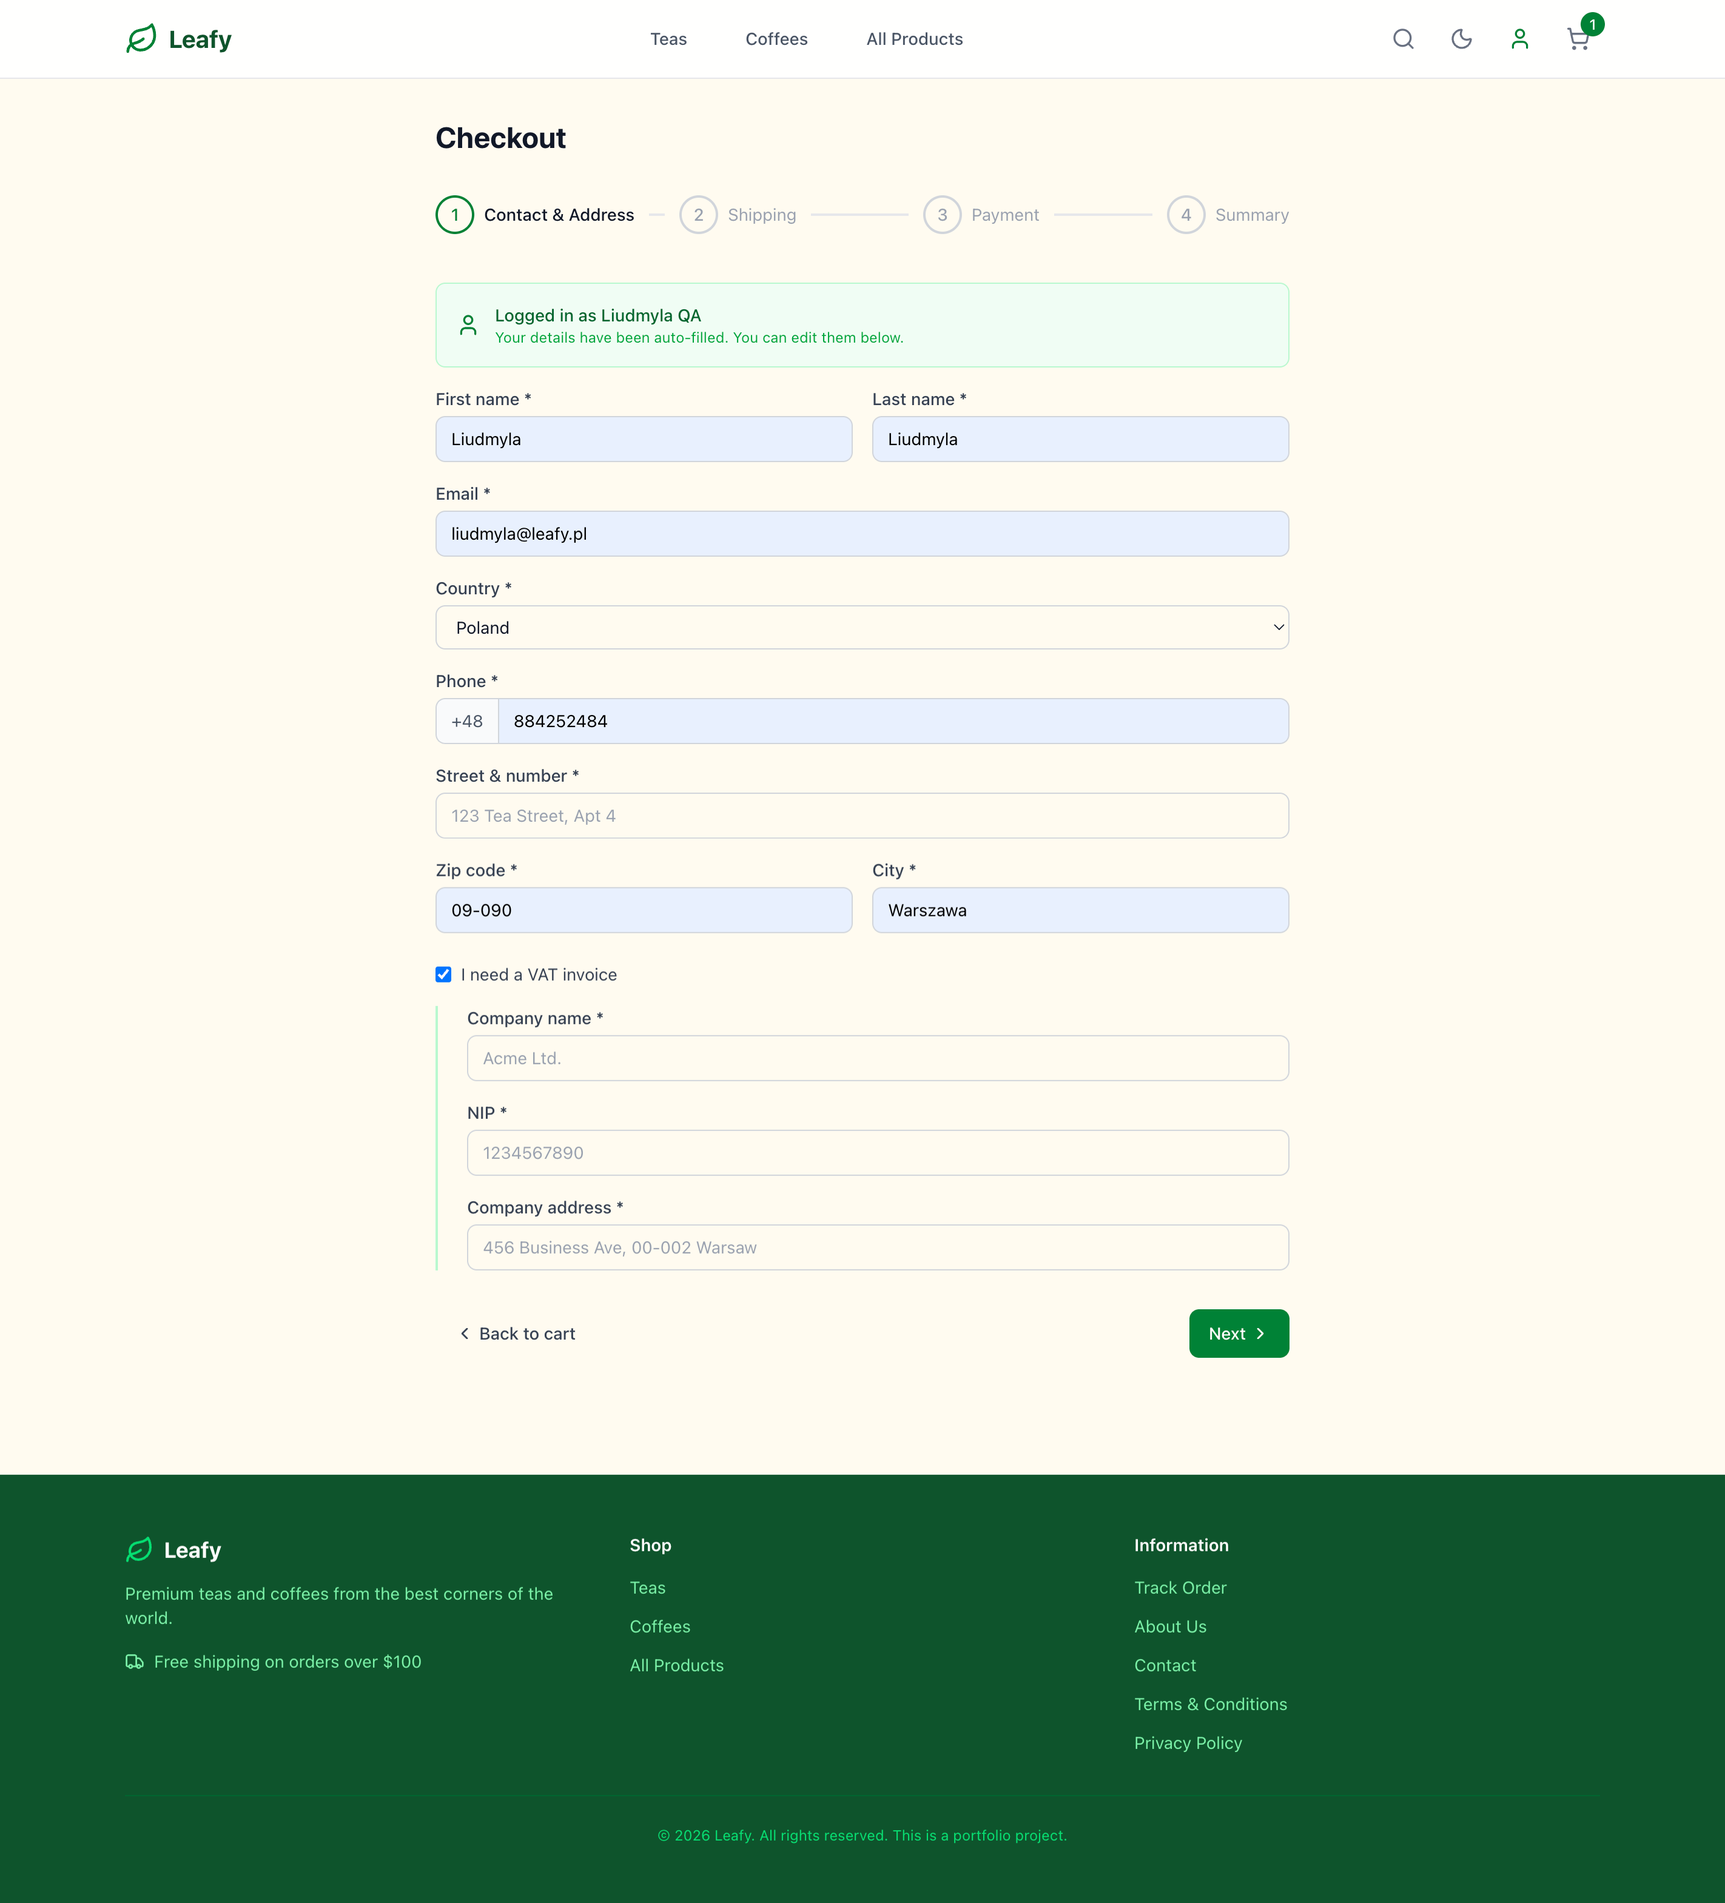
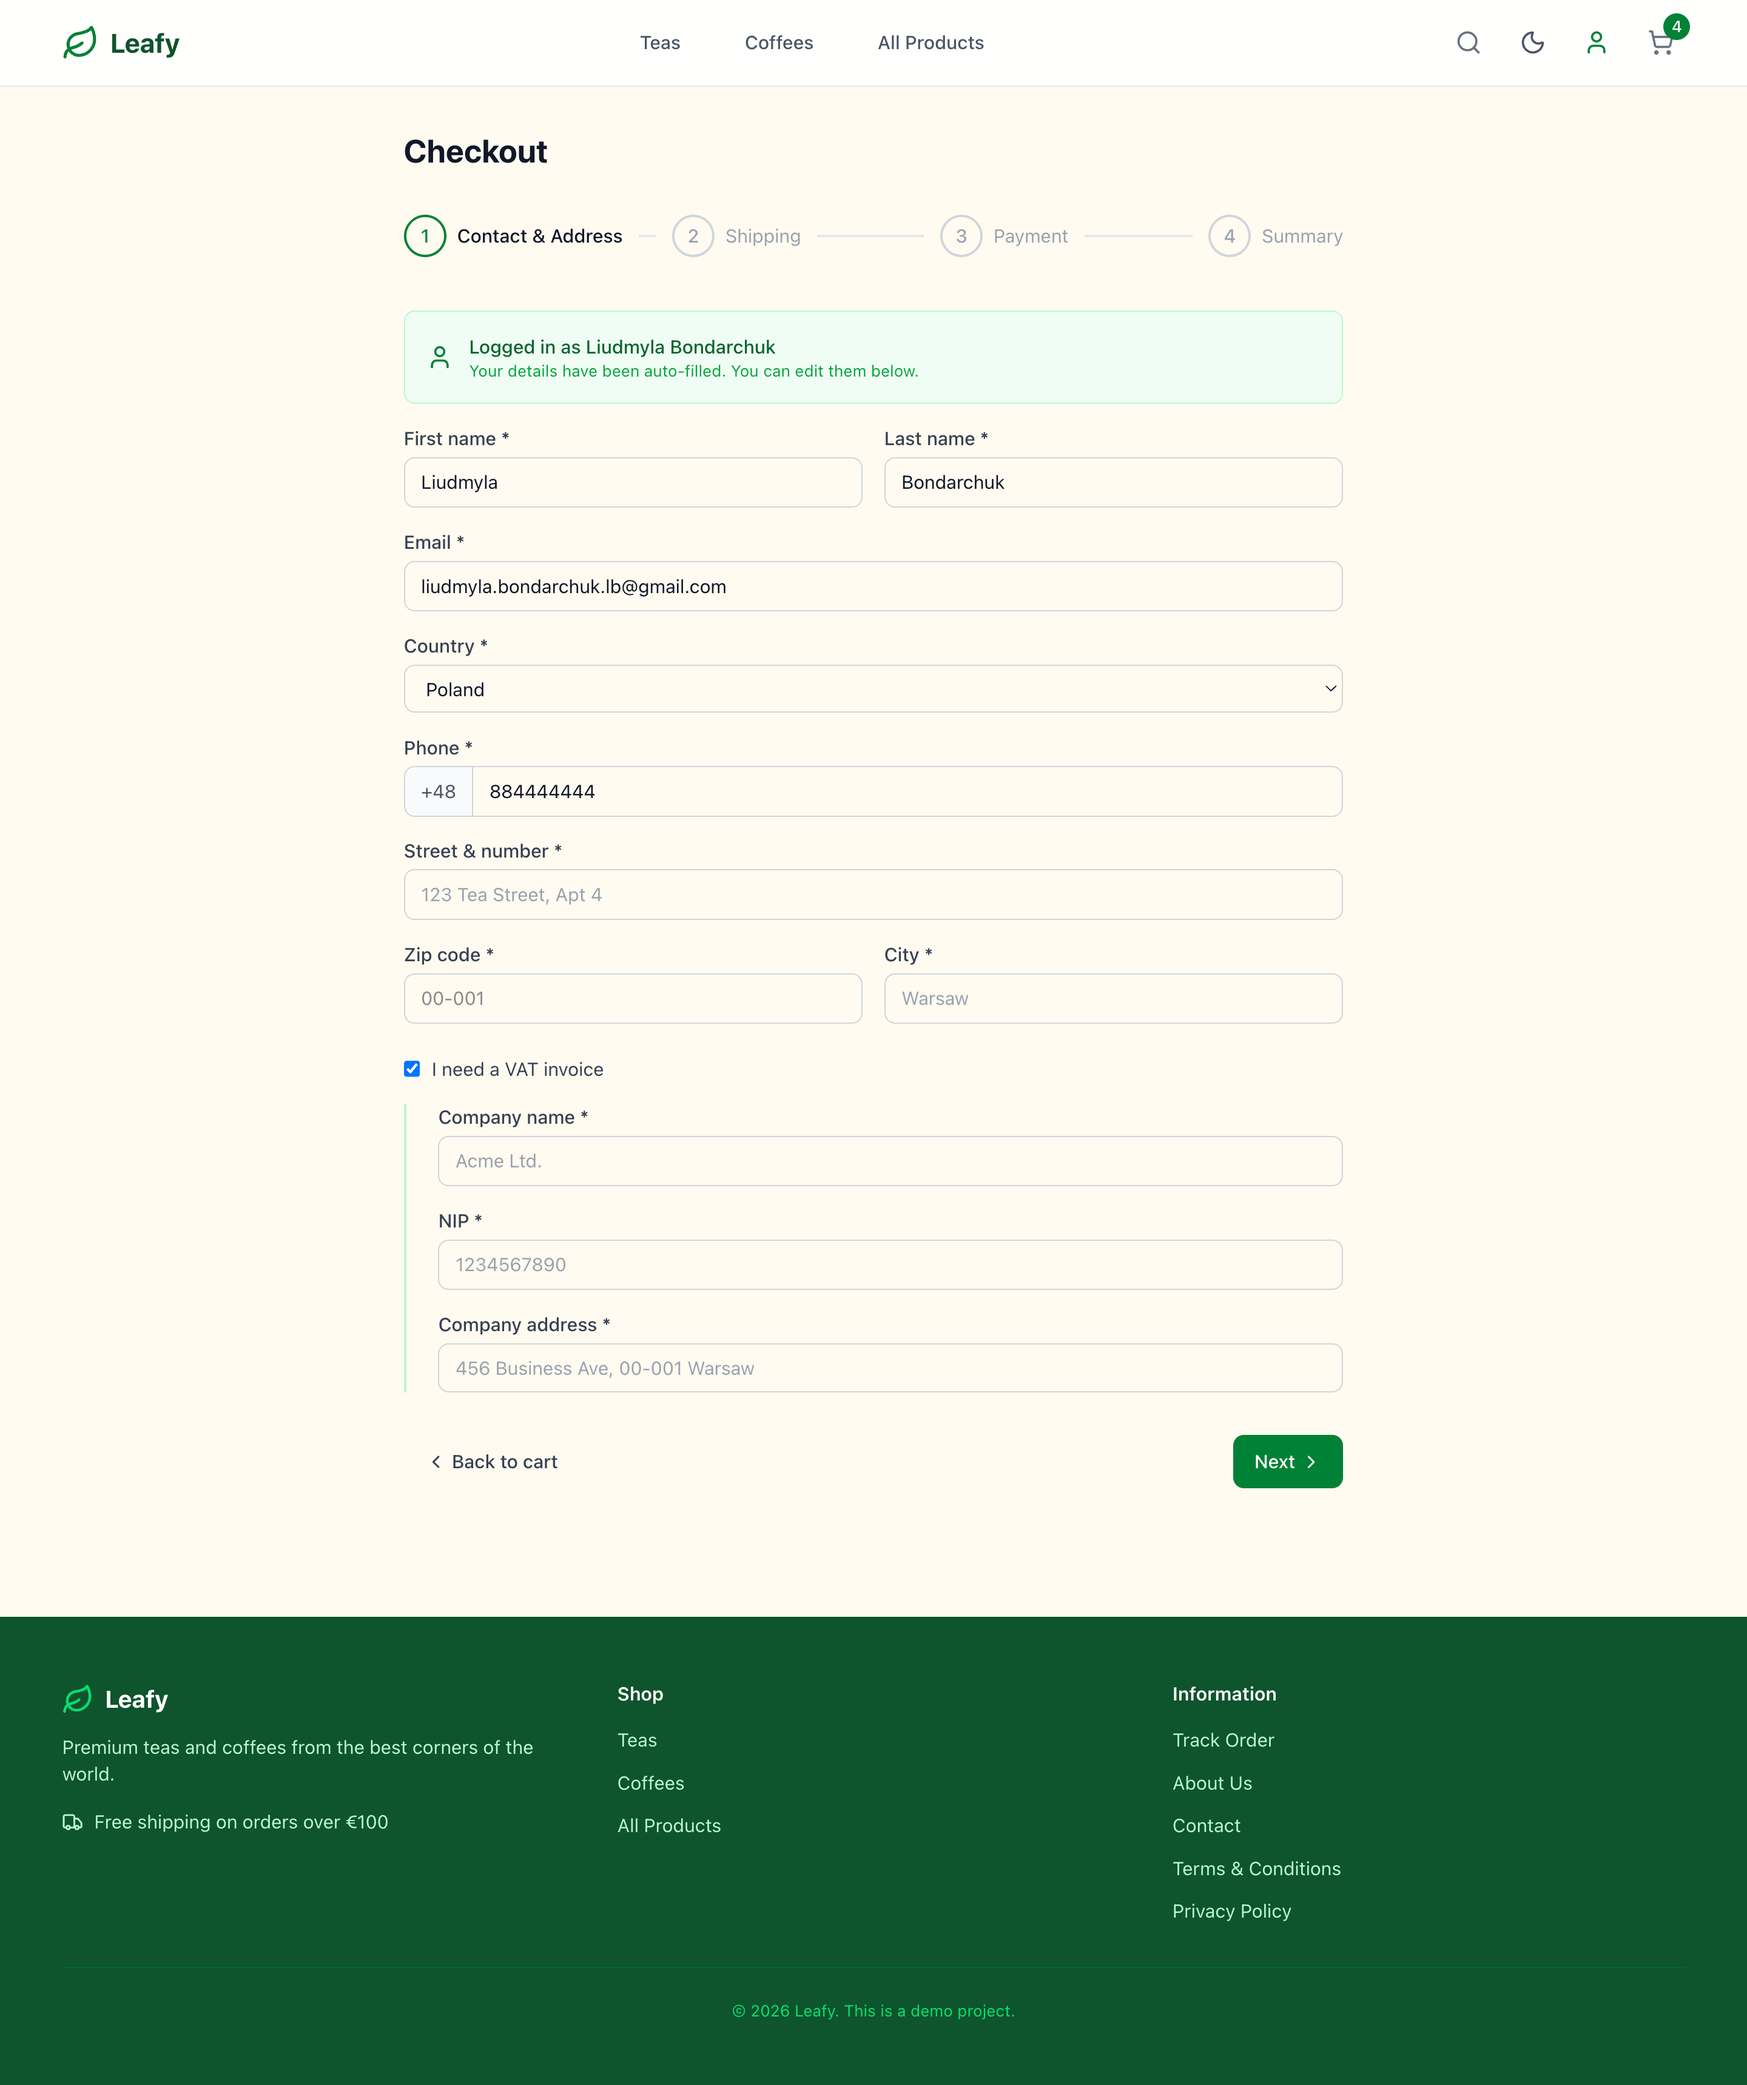
Update screenshots to EUR and add invoice, credit note and customer account
Replace the outdated dollar-priced captures with current EUR ones, drop the
dashboard shot, switch order tracking to the light theme, and add the VAT
invoice, credit note and customer-account views.

diff --git a/README.md b/README.md
@@ -36,14 +36,24 @@ An e-commerce store — catalog, cart, checkout with PayPal, VAT invoices, order
       <br><b>Checkout</b> — multi-step with country validation
     </td>
     <td align="center">
-      <img src="./docs/screenshots/dashboard.png" alt="Admin dashboard" width="100%">
-      <br><b>Admin dashboard</b> — stats, orders, alerts (dark mode)
+      <img src="./docs/screenshots/customer-account.png" alt="Customer account" width="100%">
+      <br><b>Customer account</b> — order history and profile
     </td>
   </tr>
   <tr>
     <td align="center">
-      <img src="./docs/screenshots/order-tracking-dark.png" alt="Order tracking" width="100%">
+      <img src="./docs/screenshots/order-tracking.png" alt="Order tracking" width="100%">
       <br><b>Order tracking</b> — timeline, status history
+    </td>
+    <td align="center">
+      <img src="./docs/screenshots/invoice.png" alt="VAT invoice" width="100%">
+      <br><b>VAT invoice</b> — net/gross breakdown, EU reverse charge
+    </td>
+  </tr>
+  <tr>
+    <td align="center">
+      <img src="./docs/screenshots/credit-note.png" alt="Credit note" width="100%">
+      <br><b>Credit note</b> — for returns and corrections
     </td>
     <td align="center">
       <img src="./docs/screenshots/user-permissions.png" alt="User permissions" width="100%">
@@ -53,7 +63,7 @@ An e-commerce store — catalog, cart, checkout with PayPal, VAT invoices, order
   <tr>
     <td align="center">
       <img src="./docs/screenshots/mobile.png" alt="Mobile view" width="40%">
-      <br><b>Mobile</b> — responsive product catalog
+      <br><b>Mobile</b> — responsive product page
     </td>
     <td align="center">
       <img src="./docs/screenshots/settings-mobile.png" alt="Settings mobile" width="40%">
